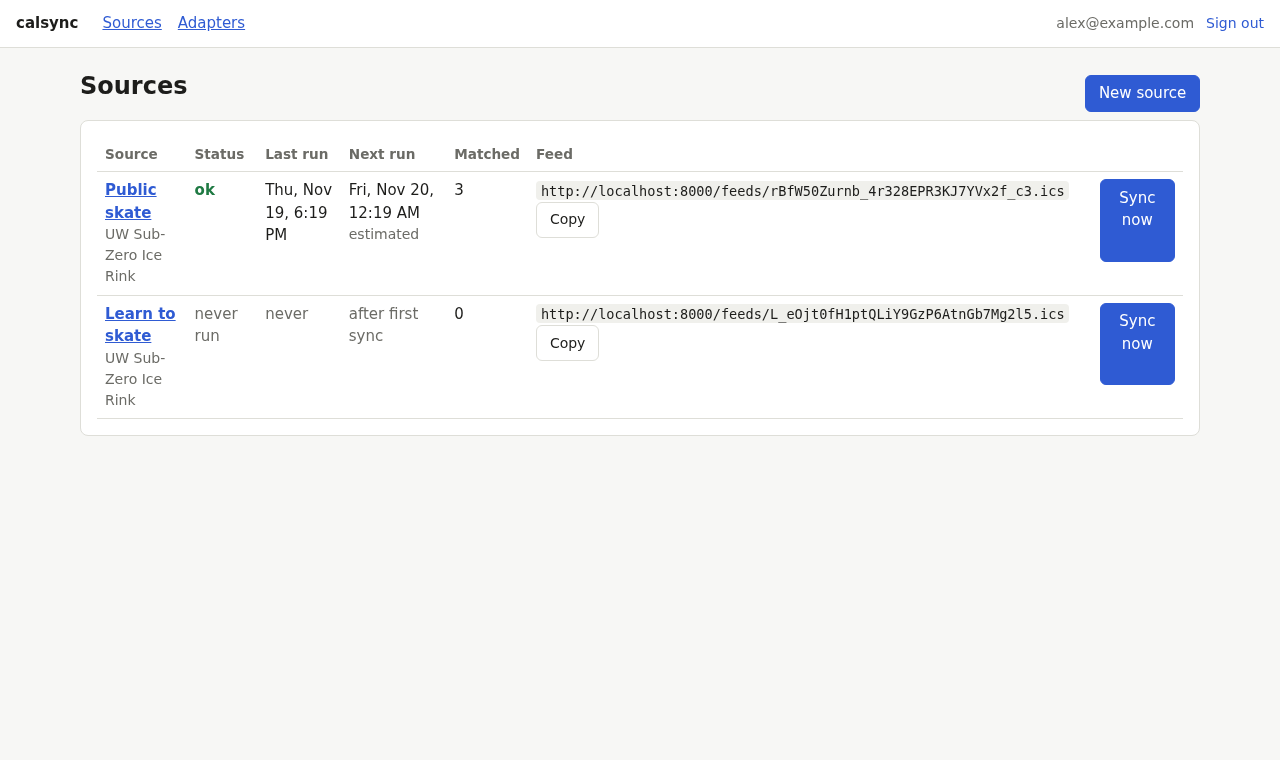
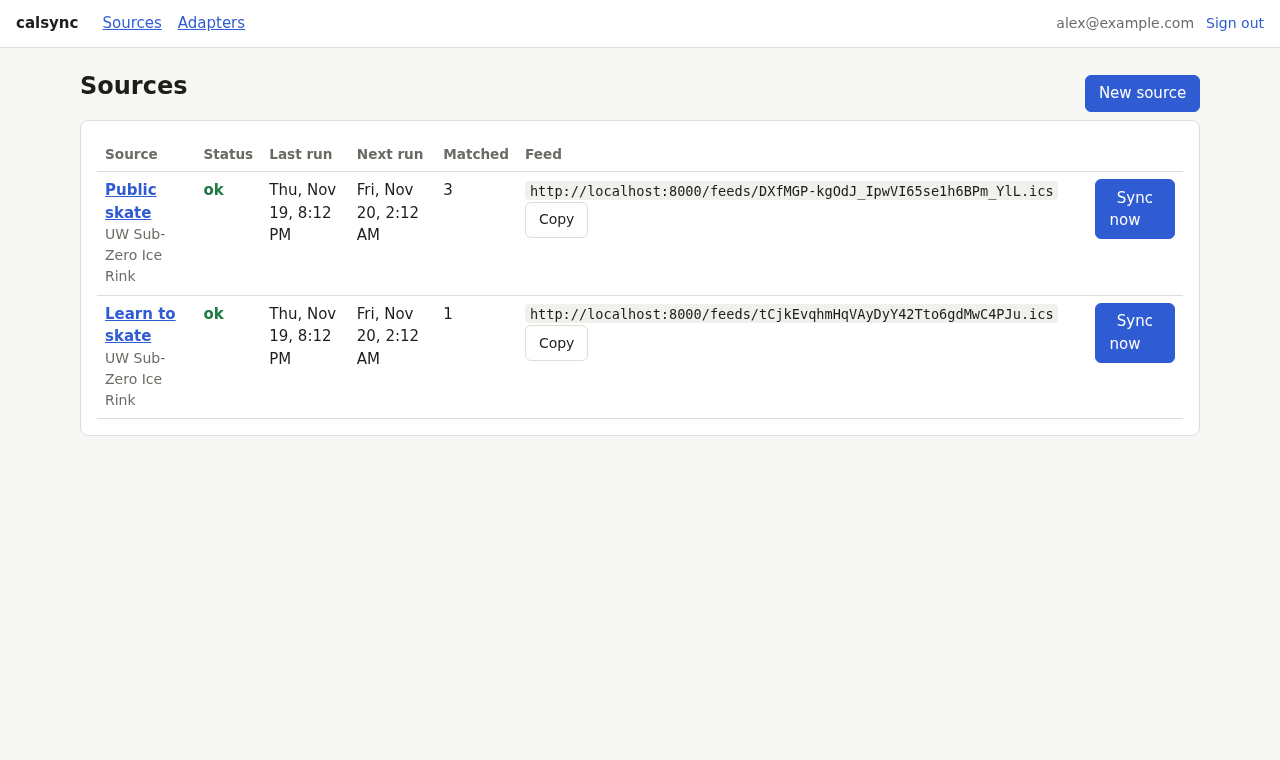
Run the web Sync now and source saves through the scheduler
The scheduler from #20 owns when sources run, so the pages use it too:

- Sync now goes through `scheduler.sync_now`, so a click and a scheduled
  run never overlap on one source; a busy source says so instead.
- Creating, saving and deleting a source from the form reschedules it,
  as the API does.
- Next run shows the job's fire time (`shown_run_at`, shared with the
  API) instead of an estimate, so `services/schedule.py` is gone.
- The scheduler's runs use `app.state.runner`, the runner tests fake.

diff --git a/app/web/templates/sources/_row.html b/app/web/templates/sources/_row.html
@@ -12,9 +12,9 @@
   </td>
   <td>{% if row.last_run_at %}<time data-local datetime="{{ row.last_run_at.isoformat() }}">{{ row.last_run_at | utc }}</time>{% else %}<span class="muted">never</span>{% endif %}</td>
   <td>
-    {% if row.next_run_at %}<time data-local datetime="{{ row.next_run_at.isoformat() }}">{{ row.next_run_at | utc }}</time><div class="muted small">estimated</div>
+    {% if row.next_run_at %}<time data-local datetime="{{ row.next_run_at.isoformat() }}">{{ row.next_run_at | utc }}</time>
     {% elif not row.enabled %}<span class="muted">paused</span>
-    {% else %}<span class="muted">after first sync</span>{% endif %}
+    {% else %}<span class="muted">not scheduled</span>{% endif %}
   </td>
   <td>{{ row.matched }}</td>
   <td>
@@ -22,6 +22,7 @@
     <button type="button" class="small" data-copy="{{ row.feed_url }}">Copy</button>
   </td>
   <td>
+    {% if busy %}<div class="muted small">Already syncing. Reload in a moment to see the result.</div>{% endif %}
     <button class="primary" hx-post="/sources/{{ row.id }}/sync" hx-target="#source-{{ row.id }}" hx-swap="outerHTML" hx-disabled-elt="this">
       Sync now <span class="htmx-indicator">…</span>
     </button>

diff --git a/app/web/sources.py b/app/web/sources.py
@@ -2,14 +2,14 @@
 
 from typing import Any
 
-from fastapi import APIRouter, Request, status
+from fastapi import APIRouter, BackgroundTasks, Request, status
 from fastapi.responses import HTMLResponse, RedirectResponse, Response
 from pydantic import ValidationError
 from sqlalchemy.orm import Session
 
 from app.adapters.registry import AdapterRegistry
 from app.adapters.schema import error_list
-from app.api.deps import AppSettings, CurrentUser, Registry
+from app.api.deps import AppScheduler, AppSettings, CurrentUser, Registry
 from app.db.base import utcnow
 from app.db.models import Source, User
 from app.db.models.source import DEFAULT_LOOKAHEAD_DAYS
@@ -29,8 +29,9 @@ from app.services import sources
 from app.services.adapter_suggest import suggest_adapters
 from app.services.errors import Invalid
 from app.services.preview import preview_source
+from app.services.scheduling import SyncInProgress, SyncScheduler
 from app.services.source_validation import source_problems
-from app.services.sync import matched_events, run_source
+from app.services.sync import matched_events
 from app.settings import Settings
 from app.web.rendering import render
 
@@ -42,9 +43,14 @@ FORM_FIELDS = set(SourcePatch.model_fields) - {"target_calendar_id"}
 
 @router.get("/")
 def source_list(
-    request: Request, db: Db, user: CurrentUser, registry: Registry, settings: AppSettings
+    request: Request,
+    db: Db,
+    user: CurrentUser,
+    registry: Registry,
+    settings: AppSettings,
+    scheduler: AppScheduler,
 ) -> HTMLResponse:
-    rows = [_row(db, registry, settings, s) for s in sources.user_sources(db, user)]
+    rows = [_row(db, registry, settings, scheduler, s) for s in sources.user_sources(db, user)]
     return render(request, "sources/list.html", {"user": user, "rows": rows})
 
 
@@ -55,7 +61,13 @@ def new_source(request: Request, user: CurrentUser, registry: Registry) -> HTMLR
 
 @router.post("/sources/new")
 async def create_source(
-    request: Request, db: Db, user: CurrentUser, registry: Registry, settings: AppSettings
+    request: Request,
+    db: Db,
+    user: CurrentUser,
+    registry: Registry,
+    settings: AppSettings,
+    scheduler: AppScheduler,
+    tasks: BackgroundTasks,
 ) -> Response:
     data = await _posted(request, user, registry)
     try:
@@ -65,6 +77,7 @@ async def create_source(
         )
     except (ValidationError, Invalid) as err:
         return _rejected(request, user, registry, None, data, err)
+    _reschedule(scheduler, tasks, source)
     return RedirectResponse(f"/?created={source.id}", status.HTTP_303_SEE_OTHER)
 
 
@@ -119,6 +132,8 @@ async def update_source(
     user: CurrentUser,
     registry: Registry,
     settings: AppSettings,
+    scheduler: AppScheduler,
+    tasks: BackgroundTasks,
 ) -> Response:
     source = sources.owned_source(db, user, source_id)
     data = await _posted(request, user, registry)
@@ -129,12 +144,16 @@ async def update_source(
     except (ValidationError, Invalid) as err:
         db.refresh(source)
         return _rejected(request, user, registry, source, data, err)
+    _reschedule(scheduler, tasks, source)
     return RedirectResponse(f"/?saved={source.id}", status.HTTP_303_SEE_OTHER)
 
 
 @router.post("/sources/{source_id}/delete")
-def delete_source(source_id: int, db: Db, user: CurrentUser) -> RedirectResponse:
+def delete_source(
+    source_id: int, db: Db, user: CurrentUser, scheduler: AppScheduler, tasks: BackgroundTasks
+) -> RedirectResponse:
     db.delete(sources.owned_source(db, user, source_id))
+    tasks.add_task(scheduler.source_deleted, source_id)
     return RedirectResponse("/", status.HTTP_303_SEE_OTHER)
 
 
@@ -146,13 +165,15 @@ async def sync_now(
     user: CurrentUser,
     registry: Registry,
     settings: AppSettings,
+    scheduler: AppScheduler,
 ) -> HTMLResponse:
     """Runs the sync inside the request and swaps in the updated row."""
-    source = sources.owned_source(db, user, source_id)
-    await run_source(db, source, registry=registry, runner=request.app.state.runner)
-    db.flush()
-    row = _row(db, registry, settings, source)
-    return render(request, "sources/_row.html", {"row": row})
+    sources.owned_source(db, user, source_id)
+    db.commit()  # end this request's transaction, so it can't block the run's writes
+    busy = await _sync_unless_busy(scheduler, source_id)
+    with request.app.state.sessions() as fresh:  # the run wrote through its own session
+        row = _row(fresh, registry, settings, scheduler, fresh.get(Source, source_id))
+    return render(request, "sources/_row.html", {"row": row, "busy": busy})
 
 
 async def _posted(request: Request, user: User, registry: AdapterRegistry) -> dict[str, Any]:
@@ -162,10 +183,30 @@ async def _posted(request: Request, user: User, registry: AdapterRegistry) -> di
     return source_form_data(form, definition)
 
 
-def _row(db: Session, registry: AdapterRegistry, settings: Settings, source: Source) -> SourceRow:
+def _row(
+    db: Session,
+    registry: AdapterRegistry,
+    settings: Settings,
+    scheduler: SyncScheduler,
+    source: Source,
+) -> SourceRow:
     definition = registry.get(source.adapter_id, source.user_id)
     matched = len(matched_events(db, source, utcnow()))
-    return source_row(settings, source, definition, matched)
+    return source_row(settings, source, definition, matched, scheduler.shown_run_at(source))
+
+
+def _reschedule(scheduler: SyncScheduler, tasks: BackgroundTasks, source: Source) -> None:
+    """After the request commits, so a due job can't run before the source is saved."""
+    tasks.add_task(scheduler.schedule, source.id, scheduler.planned_run_at(source))
+
+
+async def _sync_unless_busy(scheduler: SyncScheduler, source_id: int) -> bool:
+    """Sync now; True when a run was already going, which finishes the job instead."""
+    try:
+        await scheduler.sync_now(source_id)
+    except SyncInProgress:
+        return True
+    return False
 
 
 def _previewable(data: dict[str, Any]) -> dict[str, Any]:

diff --git a/tests/web/test_sources_pages.py b/tests/web/test_sources_pages.py
@@ -24,7 +24,8 @@ def test_create_source_from_the_form(client, adapter, runner):
     page = client.get("/")
     assert "Rink" in page.text
     assert source["feed_url"] in page.text
-    assert "after first sync" in page.text
+    next_run = client.app.state.scheduler.next_run_at(source["id"])
+    assert next_run.isoformat() in page.text  # a new source is due straight away
 
 
 def test_form_errors_are_shown_next_to_fields(client, adapter):
@@ -58,7 +59,27 @@ def test_sync_now_swaps_in_the_updated_row(client, adapter, runner):
     assert row.text.lstrip().startswith(f'<tr id="source-{source["id"]}"')
     assert "status-ok" in row.text
     assert "<td>1</td>" in row.text  # only Public Skate passes the filters
-    assert "estimated" in row.text
+    next_run = client.app.state.scheduler.next_run_at(source["id"])
+    assert next_run is not None and next_run.isoformat() in row.text
+
+
+def test_sync_now_while_syncing_says_so(client, adapter, runner):
+    source = create(client)
+    lock = client.app.state.scheduler.runs.lock(source["id"])
+    client.portal.call(lock.acquire)
+    try:
+        row = client.post(f"/sources/{source['id']}/sync").text
+    finally:
+        client.portal.call(lock.release)
+    assert "Already syncing" in row
+    assert runner.calls == []
+
+
+def test_deleting_a_source_drops_its_job(client, adapter):
+    source = create(client)
+    assert client.app.state.scheduler.next_run_at(source["id"]) is not None
+    client.post(f"/sources/{source['id']}/delete")
+    assert client.app.state.scheduler.next_run_at(source["id"]) is None
 
 
 def test_sync_error_shows_a_hint(client, adapter, runner):

diff --git a/app/mappers/pages.py b/app/mappers/pages.py
@@ -1,16 +1,21 @@
+from datetime import datetime
+
 from app.adapters.schema import AdapterDefinition
 from app.db.models import Source
 from app.schemas.pages import ProblemRow, SourceRow
 from app.services.error_hints import definition_hint, run_hint
 from app.services.feeds import feed_url
-from app.services.schedule import estimated_next_run
 from app.services.source_validation import Problem
 from app.services.yaml_lines import line_for
 from app.settings import Settings
 
 
 def source_row(
-    settings: Settings, source: Source, definition: AdapterDefinition | None, matched: int
+    settings: Settings,
+    source: Source,
+    definition: AdapterDefinition | None,
+    matched: int,
+    next_run_at: datetime | None,
 ) -> SourceRow:
     return SourceRow(
         id=source.id,
@@ -21,7 +26,7 @@ def source_row(
         error=source.last_error,
         hint=run_hint(source.last_error),
         last_run_at=source.last_run_at,
-        next_run_at=estimated_next_run(source),
+        next_run_at=next_run_at,
         matched=matched,
         feed_url=feed_url(settings, source.feed_token),
     )

diff --git a/app/services/scheduling/scheduler.py b/app/services/scheduling/scheduler.py
@@ -89,6 +89,10 @@ class SyncScheduler:
         job = self._aps.get_job(_job_id(source_id))
         return job.next_run_time if job else None
 
+    def shown_run_at(self, source: Source) -> datetime | None:
+        """The job's fire time; the planned one while a run has the job off the schedule."""
+        return self.next_run_at(source.id) or self.planned_run_at(source)
+
     async def sync_now(self, source_id: int) -> SyncResult | None:
         """Run the source now, enabled or not. Raises `SyncInProgress` if it is running."""
         return await self._run(source_id, scheduled=False)

diff --git a/app/api/sources.py b/app/api/sources.py
@@ -89,9 +89,7 @@ async def sync_source(
 
 
 def _out(settings: Settings, scheduler: SyncScheduler, source: Source) -> SourceOut:
-    """The job's fire time; the planned one while a run has the job off the schedule."""
-    run_at = scheduler.next_run_at(source.id) or scheduler.planned_run_at(source)
-    return source_out(settings, source, run_at)
+    return source_out(settings, source, scheduler.shown_run_at(source))
 
 
 def _scheduled_out(

diff --git a/tests/web/conftest.py b/tests/web/conftest.py
@@ -25,8 +25,10 @@ RINK_EVENTS = [
 
 @pytest.fixture
 def runner(client):
+    """Fakes both runners: the preview's and the scheduler's, which Sync now uses."""
     fake = FakeRunner(events=RINK_EVENTS)
     client.app.state.runner = fake
+    client.app.state.scheduler.runs.runner = fake
     return fake
 
 

diff --git a/tests/services/scheduling/test_scheduler.py b/tests/services/scheduling/test_scheduler.py
@@ -38,7 +38,7 @@ def sessions(tmp_path):
 @pytest.fixture
 def registry():
     registry = AdapterRegistry()
-    registry.add_source(lambda: [parse_definition(HTML_DEF)])
+    registry.add_source(lambda user_id: [parse_definition(HTML_DEF)])
     return registry
 
 

diff --git a/docs/usage.md b/docs/usage.md
@@ -19,7 +19,7 @@ Your session lasts 30 days. **Sign out** in the top-right ends it; your sources 
 The **Sources** page lists each source with:
 
 - **Status**: `ok`, `error` with the error and a hint about what to do, or `never run`.
-- **Last run** and **Next run**. The next run is estimated from the last run and the source's interval.
+- **Last run** and **Next run**. The next run is the source's interval after the last one, and longer while the site keeps failing; see [Scheduling](api.md#scheduling). A paused source has no next run.
 - **Matched**: how many upcoming events pass the source's filters right now.
 - **Feed**: the source's `.ics` URL, with a **Copy** button. Anyone with this URL can read the feed; see [Calendar feeds](feeds.md).
 - **Sync now** runs the source immediately and updates its row.
